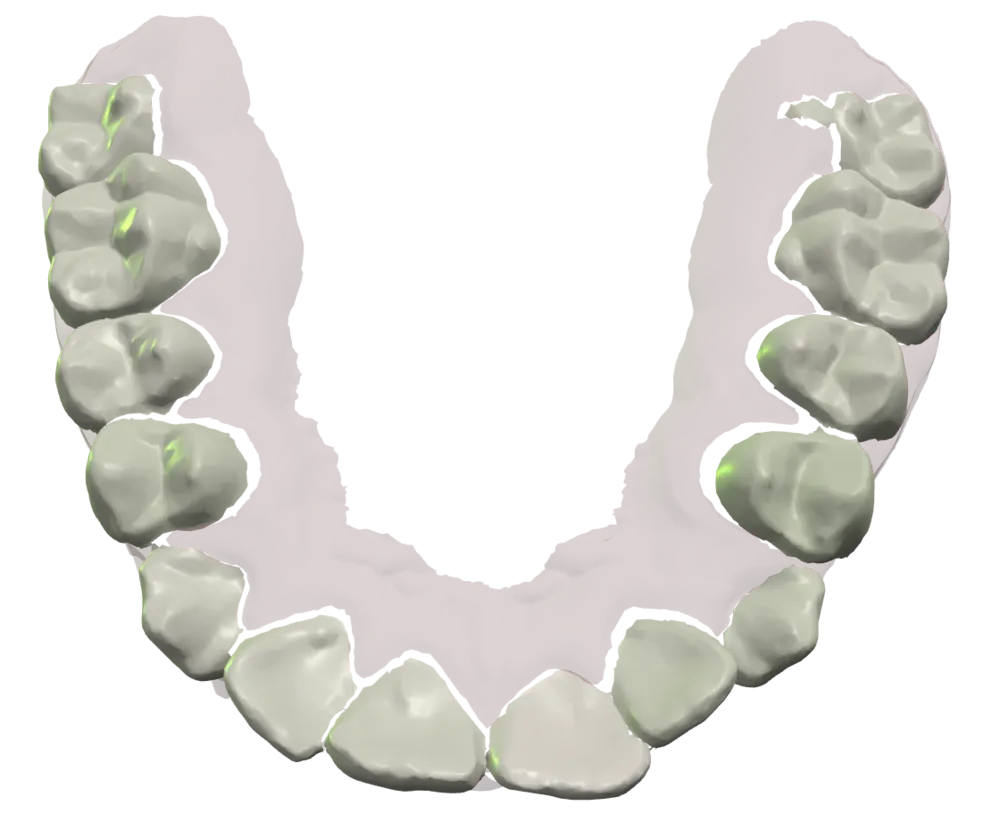
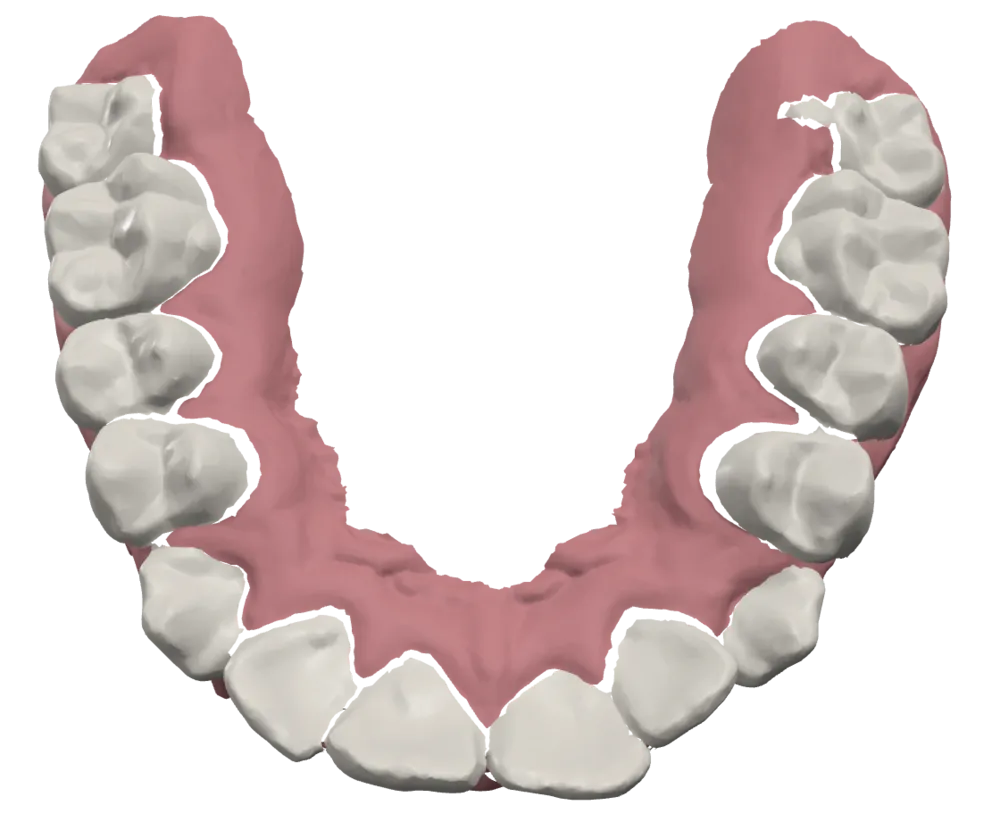
fix(cualign): 히어로 포스터를 첫 프레임과 맞추고 3D 색을 중립으로 바꾼다
- 포스터는 1440 폭·2x 에서 페이지 캔버스의 첫 프레임을 그대로 캡처한 이미지로 바꾸고, 캔버스와 같은 박스(object-fit: fill)에 둔다. 넘어갈 때 200ms 크로스페이드
- 치아는 아이보리, 잇몸은 불투명한 분홍, 조명은 중립 흰색으로 바꾸고 초록 림 라이트·이동 치아 틴트·발치 치아 강조를 뺀다. 발치 치아는 위로 빠지며 사라지는 동작만 남긴다
- 히어로 뒤 초록 glow 를 아주 약한 중립광으로 줄인다
- 단계 슬라이더·데모 렌더와 OG 이미지를 같은 색 기준으로 다시 만든다. 충돌 표시 빨강은 둔다
- 색을 말하던 문구(초록으로 바뀐다)를 고친다

diff --git a/apps/cualign/hero3d.js b/apps/cualign/hero3d.js
@@ -1,19 +1,18 @@
 // Hero: the sample upper arch (poseidon-000097) replaying an extraction plan cuAlign computed for it.
-// The two teeth to extract are tinted, lift out and fade, then the other teeth close the space stage by stage.
+// The two teeth to extract lift out and fade, then the other teeth close the space stage by stage.
 // Loaded by app.js only when WebGL works and reduced motion is off; the poster image stays otherwise.
 import * as THREE from 'https://cdnjs.cloudflare.com/ajax/libs/three.js/0.160.0/three.module.min.js';
 
-const IVORY = new THREE.Color(0xe9e4da);
-const GREEN = new THREE.Color(0x76b900);
-const RED = new THREE.Color(0xe5484d);
+// Neutral dental-viewer tones: ivory enamel, soft pink gingiva, white light.
+const IVORY = new THREE.Color(0xf2ede3);
+const GUM = new THREE.Color(0xd98f94);
 // Timeline of one loop, in order.
 const SHOW_MS = 1200;      // the arch as scanned
-const MARK_MS = 1100;      // the teeth to extract take on a soft green tint
 const LIFT_MS = 1100;      // they rise out of the arch, shrink a little and fade
 const PLAY_MS = 7000;      // the remaining teeth move through every stage
 const HOLD_MS = 1800;      // rest on the final stage
 const BACK_MS = 1000;      // everything eases back to the start
-const CYCLE_MS = SHOW_MS + MARK_MS + LIFT_MS + PLAY_MS + HOLD_MS + BACK_MS;
+const CYCLE_MS = SHOW_MS + LIFT_MS + PLAY_MS + HOLD_MS + BACK_MS;
 const LIFT_MM = 9;         // how far an extracted tooth rises
 
 const ease = (t) => (t < 0.5 ? 2 * t * t : 1 - Math.pow(-2 * t + 2, 2) / 2);
@@ -38,10 +37,10 @@ export async function mountHero({ stage, canvas, dataUrl, touch }) {
 
   const scene = new THREE.Scene();
   const camera = new THREE.PerspectiveCamera(28, 1, 1, 1000);
-  scene.add(new THREE.HemisphereLight(0xffffff, 0x1a1f1c, 1.1));
-  const key = new THREE.DirectionalLight(0xffffff, 1.6); key.position.set(40, 90, 80); scene.add(key);
-  const rim = new THREE.DirectionalLight(0x9be02a, 1.1); rim.position.set(-80, 30, -90); scene.add(rim);
-  const fill = new THREE.DirectionalLight(0xffffff, 0.35); fill.position.set(-40, -30, 60); scene.add(fill);
+  scene.add(new THREE.HemisphereLight(0xffffff, 0x2a2a2a, 1.0));
+  const key = new THREE.DirectionalLight(0xffffff, 1.5); key.position.set(40, 90, 80); scene.add(key);
+  const back = new THREE.DirectionalLight(0xffffff, 0.5); back.position.set(-80, 30, -90); scene.add(back);
+  const fill = new THREE.DirectionalLight(0xffffff, 0.4); fill.position.set(-40, -30, 60); scene.add(fill);
 
   // yaw (turntable) > pitch > model; the model is centred and turned so the crowns face up and the incisors face the camera.
   const yaw = new THREE.Group();
@@ -53,16 +52,15 @@ export async function mountHero({ stage, canvas, dataUrl, touch }) {
   const removed = new Set((data.removed ?? []).map(String));
   const teeth = {};
   for (const [id, part] of Object.entries(data.teeth)) {
-    const mat = new THREE.MeshStandardMaterial({ color: IVORY.clone(), roughness: 0.38, metalness: 0.02 });
-    if (removed.has(id)) { mat.transparent = true; mat.emissive = GREEN.clone(); mat.emissiveIntensity = 0; }
+    const mat = new THREE.MeshStandardMaterial({ color: IVORY, roughness: 0.42, metalness: 0 });
+    if (removed.has(id)) mat.transparent = true;
     const mesh = new THREE.Mesh(geometry(part), mat);
     model.add(mesh);
     teeth[id] = mesh;
   }
   const gum = new THREE.Mesh(geometry(data.gum), new THREE.MeshStandardMaterial({
-    color: 0x9a7478, roughness: 0.75, metalness: 0, transparent: true, opacity: 0.3, depthWrite: false,
+    color: GUM, roughness: 0.62, metalness: 0,
   }));
-  gum.renderOrder = -1;
   model.add(gum);
 
   const box = new THREE.Box3().setFromObject(model);
@@ -83,13 +81,6 @@ export async function mountHero({ stage, canvas, dataUrl, touch }) {
     lift[id] = { c, dir: Math.sign(meanZ(data.teeth[id].v) - gumZ) || 1 };
   }
 
-  const last = data.stages[n - 1];
-  const maxMove = Math.max(1e-6, ...Object.values(last).map((d) => Math.hypot(...d)));
-  const badAt = {};
-  for (const v of data.violations) {
-    if (v.stage == null || !v.teeth) continue;
-    (badAt[v.stage] ??= []).push(v);
-  }
 
   const offsetAt = (k, id) => (k > 0 ? data.stages[k - 1][id] ?? [0, 0, 0] : [0, 0, 0]);
   const angleAt = (k, id) => (k > 0 ? data.rotations[k - 1]?.[id] ?? 0 : 0);
@@ -98,8 +89,6 @@ export async function mountHero({ stage, canvas, dataUrl, touch }) {
   // v' = R(v − c) + c + d  ⇒  position = d + c − R·c.
   function pose(s) {
     const k0 = Math.floor(s), k1 = Math.min(n, k0 + 1), t = s - k0;
-    const shown = Math.round(s);
-    const bad = new Set((badAt[shown] ?? []).filter((v) => v.type === 'collision').flatMap((v) => v.teeth.map(String)));
     for (const [id, m] of Object.entries(teeth)) {
       if (removed.has(id)) continue;
       const a0 = offsetAt(k0, id), a1 = offsetAt(k1, id);
@@ -112,20 +101,15 @@ export async function mountHero({ stage, canvas, dataUrl, touch }) {
         d[1] + c[1] - (Math.sin(a) * c[0] + Math.cos(a) * c[1]),
         d[2],
       );
-      if (bad.has(id)) m.material.color.copy(RED);
-      else m.material.color.copy(IVORY).lerp(GREEN, Math.min(1, Math.hypot(...d) / maxMove) * 0.85);
     }
   }
 
-  // Extracted teeth: mark (0..1) tints them, out (0..1) lifts, shrinks and fades them.
-  const MARK = IVORY.clone().lerp(GREEN, 0.55);
-  function extract(mark, out) {
+  // Extracted teeth keep their colour: out (0..1) lifts, shrinks and fades them.
+  function extract(out) {
     for (const id of removed) {
       const m = teeth[id], l = lift[id];
       if (!m || !l) continue;
       m.visible = out < 1;
-      m.material.color.copy(IVORY).lerp(MARK, mark);
-      m.material.emissiveIntensity = 0.22 * mark * (1 - out);
       m.material.opacity = 1 - out;
       m.material.depthWrite = out === 0;
       m.scale.setScalar(1 - 0.15 * out);
@@ -133,22 +117,20 @@ export async function mountHero({ stage, canvas, dataUrl, touch }) {
     }
   }
 
-  // Where the loop is at time ms: stage s, tint mark, extraction progress out.
+  // Where the loop is at time ms: stage s and extraction progress out.
   const easeOut = (t) => 1 - Math.pow(1 - t, 3);
   function timeline(ms) {
     let t = ms % CYCLE_MS;
-    if (t < SHOW_MS) return { s: 0, mark: 0, out: 0 };
+    if (t < SHOW_MS) return { s: 0, out: 0 };
     t -= SHOW_MS;
-    if (t < MARK_MS) return { s: 0, mark: ease(t / MARK_MS), out: 0 };
-    t -= MARK_MS;
-    if (t < LIFT_MS) return { s: 0, mark: 1, out: easeOut(t / LIFT_MS) };
+    if (t < LIFT_MS) return { s: 0, out: easeOut(t / LIFT_MS) };
     t -= LIFT_MS;
-    if (t < PLAY_MS) return { s: n * ease(t / PLAY_MS), mark: 1, out: 1 };
+    if (t < PLAY_MS) return { s: n * ease(t / PLAY_MS), out: 1 };
     t -= PLAY_MS;
-    if (t < HOLD_MS) return { s: n, mark: 1, out: 1 };
+    if (t < HOLD_MS) return { s: n, out: 1 };
     t -= HOLD_MS;
     const b = ease(t / BACK_MS);
-    return { s: n * (1 - b), mark: 1 - b, out: 1 - b };
+    return { s: n * (1 - b), out: 1 - b };
   }
 
   // Fit the arch into the canvas.
@@ -184,7 +166,7 @@ export async function mountHero({ stage, canvas, dataUrl, touch }) {
     yaw.position.y = -scrolled * radius * 0.25;
     const at = timeline(clock);
     pose(at.s);
-    extract(at.mark, at.out);
+    extract(at.out);
     renderer.render(scene, camera);
     if (visible) raf = requestAnimationFrame(frame);
   }
@@ -217,7 +199,7 @@ export async function mountHero({ stage, canvas, dataUrl, touch }) {
 
   // Draw once, then let the caller swap the poster out.
   pose(0);
-  extract(0, 0);
+  extract(0);
   renderer.render(scene, camera);
   start();
   return { stages: n };

diff --git a/apps/cualign/index.html b/apps/cualign/index.html
@@ -83,8 +83,8 @@
 
         <div class="hero-visual">
           <div class="hero-glow" aria-hidden="true"></div>
-          <div class="hero-stage" role="img" aria-label="A 3D upper arch from a public sample scan. Two premolars are marked and lifted out, then the other teeth close the gap stage by stage." data-hero-stage>
-            <img class="hero-poster" src="assets/hero-poster.webp" width="1600" height="1201" alt="" fetchpriority="high">
+          <div class="hero-stage" role="img" aria-label="A 3D upper arch from a public sample scan. Two premolars lift out, then the other teeth close the gap stage by stage." data-hero-stage>
+            <img class="hero-poster" src="assets/hero-poster.webp" width="1080" height="972" alt="" fetchpriority="high">
             <canvas class="hero-canvas" aria-hidden="true" data-hero-canvas></canvas>
           </div>
         </div>
@@ -184,7 +184,7 @@
                   <figcaption>Before treatment</figcaption>
                 </figure>
                 <figure data-media="1">
-                  <img src="assets/stages/000001-18.webp" width="1000" height="830" loading="lazy" alt="The drafted final stage. Teeth that moved are shaded green.">
+                  <img src="assets/stages/000001-18.webp" width="1000" height="830" loading="lazy" alt="The final stage of the drafted plan.">
                   <figcaption>The drafted plan, final stage</figcaption>
                 </figure>
                 <figure data-media="2">
@@ -208,7 +208,7 @@
       <div class="container scrub">
         <div class="scrub-copy reveal">
           <h2>See every stage<br><span class="dim">before you sign off.</span></h2>
-          <p>Drag through a real 18-stage plan. Teeth turn green as they move, and red marks a collision the rule check found.</p>
+          <p>Drag through a real 18-stage plan. Red marks a collision the rule check found.</p>
           <div class="scrub-control">
             <div class="scrub-row">
               <button class="scrub-play" type="button" aria-label="Pause stage playback" data-stage-play>

diff --git a/apps/cualign/styles.css b/apps/cualign/styles.css
@@ -130,16 +130,16 @@ code { font: 500 0.88em var(--mono); color: var(--text); }
 .hero-glow {
   position: absolute; inset: -18% -22% -10%; pointer-events: none; z-index: 0;
   background:
-    radial-gradient(closest-side at 50% 55%, rgba(118, 185, 0, .42), rgba(118, 185, 0, .12) 45%, transparent 72%),
-    conic-gradient(from 200deg at 50% 55%, transparent 0deg, rgba(147, 214, 26, .16) 40deg, transparent 90deg, transparent 180deg, rgba(118, 185, 0, .12) 230deg, transparent 290deg);
+    radial-gradient(closest-side at 50% 55%, rgba(255, 255, 255, .07), rgba(255, 255, 255, .02) 50%, transparent 72%);
   filter: blur(36px);
   animation: breathe 8s ease-in-out infinite;
 }
 @keyframes breathe { 0%, 100% { opacity: .85; transform: scale(1); } 50% { opacity: 1; transform: scale(1.05); } }
 .hero-stage { position: relative; z-index: 1; aspect-ratio: 1 / 0.9; }
 .hero-poster, .hero-canvas { position: absolute; inset: 0; width: 100%; height: 100%; }
-.hero-poster { object-fit: contain; transition: opacity .6s; }
-.hero-canvas { opacity: 0; transition: opacity .8s; cursor: grab; touch-action: pan-y; }
+/* The poster is the canvas's own first frame at the same aspect ratio, so both fill the same box. */
+.hero-poster { object-fit: fill; transition: opacity .2s linear; }
+.hero-canvas { opacity: 0; transition: opacity .2s linear; cursor: grab; touch-action: pan-y; }
 .hero-canvas.is-dragging { cursor: grabbing; }
 .hero-stage.is-live .hero-canvas { opacity: 1; }
 .hero-stage.is-live .hero-poster { opacity: 0; }

diff --git a/apps/cualign/README.md b/apps/cualign/README.md
@@ -3,12 +3,12 @@
 cuAlign을 소개하는 영어 정적 랜딩 페이지입니다. 빌드 단계 없이 이 폴더의 파일을 그대로 서빙하고, <https://cualign.external.kr> 에서 열립니다.
 
 - `index.html`, `styles.css`, `app.js`: 메인 페이지와 인터랙션(스크롤 등장, 히어로 처방 입력 타이핑, 에이전트 대화 데모 재생·다시 보기, 단계 슬라이더, 실행 전 EULA 동의 창)
-- `hero3d.js`: 히어로의 3D 치열. 끌어서 돌릴 수 있습니다. three.js 0.160.0 을 cdnjs 에서 받아 샘플 케이스 000097 의 발치 계획을 반복 재생합니다. 발치할 두 치아(14·24)를 연두색으로 표시하고, 위로 빼면서 흐리게 한 뒤, 나머지 치아가 단계별로 공간을 메웁니다. WebGL 이 없거나 동작 줄이기 설정이면 `app.js` 가 이 모듈을 부르지 않고 `assets/hero-poster.webp` 만 보여 줍니다.
+- `hero3d.js`: 히어로의 3D 치열. 끌어서 돌릴 수 있습니다. three.js 0.160.0 을 cdnjs 에서 받아 샘플 케이스 000097 의 발치 계획을 반복 재생합니다. 발치할 두 치아(14·24)를 색 변화 없이 위로 빼면서 흐리게 한 뒤, 나머지 치아가 단계별로 공간을 메웁니다. 치아는 아이보리, 잇몸은 분홍, 조명은 중립 흰색입니다. WebGL 이 없거나 동작 줄이기 설정이면 `app.js` 가 이 모듈을 부르지 않고 `assets/hero-poster.webp` 만 보여 줍니다.
 - `robots.txt`, `sitemap.xml`: 검색 엔진용 파일. 페이지 경로가 바뀌면 `sitemap.xml` 도 고칩니다.
 - `assets/og.png`: 공유 미리보기 이미지(1200×630). 히어로 3D 를 투명 배경으로 캡처해 로고·문구와 합성했습니다. `favicon.svg`, `favicon-32.png`, `favicon.png`, `apple-touch-icon.png` 는 파비콘 세트입니다.
 - `request/`, `forms.json`: 데모 요청 양식 페이지와 감사 페이지, 그리고 router 의 `/_forms/<양식>` 이 받을 필드·필수 항목·선택지·길이 제한·되돌아갈 주소를 정한 설정입니다.
 - `eula.html`: 연구용 프로토타입 최종 사용자 사용권 계약. 문구를 바꾸면 `app.js` 의 `EULA_VERSION` 을 함께 올려야 동의를 다시 받습니다.
 - `assets/`: 로고(cuAlign 저장소의 `static/logo.png`)와 v2 화면(`/ui/v2/`, 샘플 케이스 000001·000131) 캡처. 제품 화면은 캡처할 때만 화면의 한국어 문구를 영어로 바꿔서 찍었습니다(cuAlign 코드는 그대로입니다).
-- `assets/hero-case.json`: cuAlign main 의 `cualign plan "14번과 24번 발치로" --case poseidon-000097`(발치안 27단계, 규칙 통과) 결과와 `/api/cases/poseidon-000097/mesh` 에서 좌표를 소수 셋째 자리로 줄이고 쓰는 필드만 남긴 데이터. `removed` 에 뺀 치아(Universal 5·12)를 적습니다. `hero-poster.webp` 는 이 계획의 최종 단계입니다.
+- `assets/hero-case.json`: cuAlign main 의 `cualign plan "14번과 24번 발치로" --case poseidon-000097`(발치안 27단계, 규칙 통과) 결과와 `/api/cases/poseidon-000097/mesh` 에서 좌표를 소수 셋째 자리로 줄이고 쓰는 필드만 남긴 데이터. `removed` 에 뺀 치아(Universal 5·12)를 적습니다. `hero-poster.webp` 는 1440 폭·2x 에서 페이지 캔버스가 그린 첫 프레임을 그대로 캡처한 것이라서, 캔버스와 같은 박스(`object-fit: fill`)에 놓으면 치열 위치가 맞습니다. 카메라나 색을 바꾸면 포스터도 다시 캡처합니다.
 
 내용은 cuAlign 저장소(<https://github.com/dalsoop/nvidia-hackaton-2026-one>)의 `apps/cualign-prototype` README, `docs/OVERVIEW.md`, `docs/NVIDIA_STACK.md`, `docs/VERIFICATION.md`, `evals/` 에 적힌 사실만 옮깁니다. 그 문서의 범위나 한계가 바뀌면 이 페이지도 함께 고칩니다.
